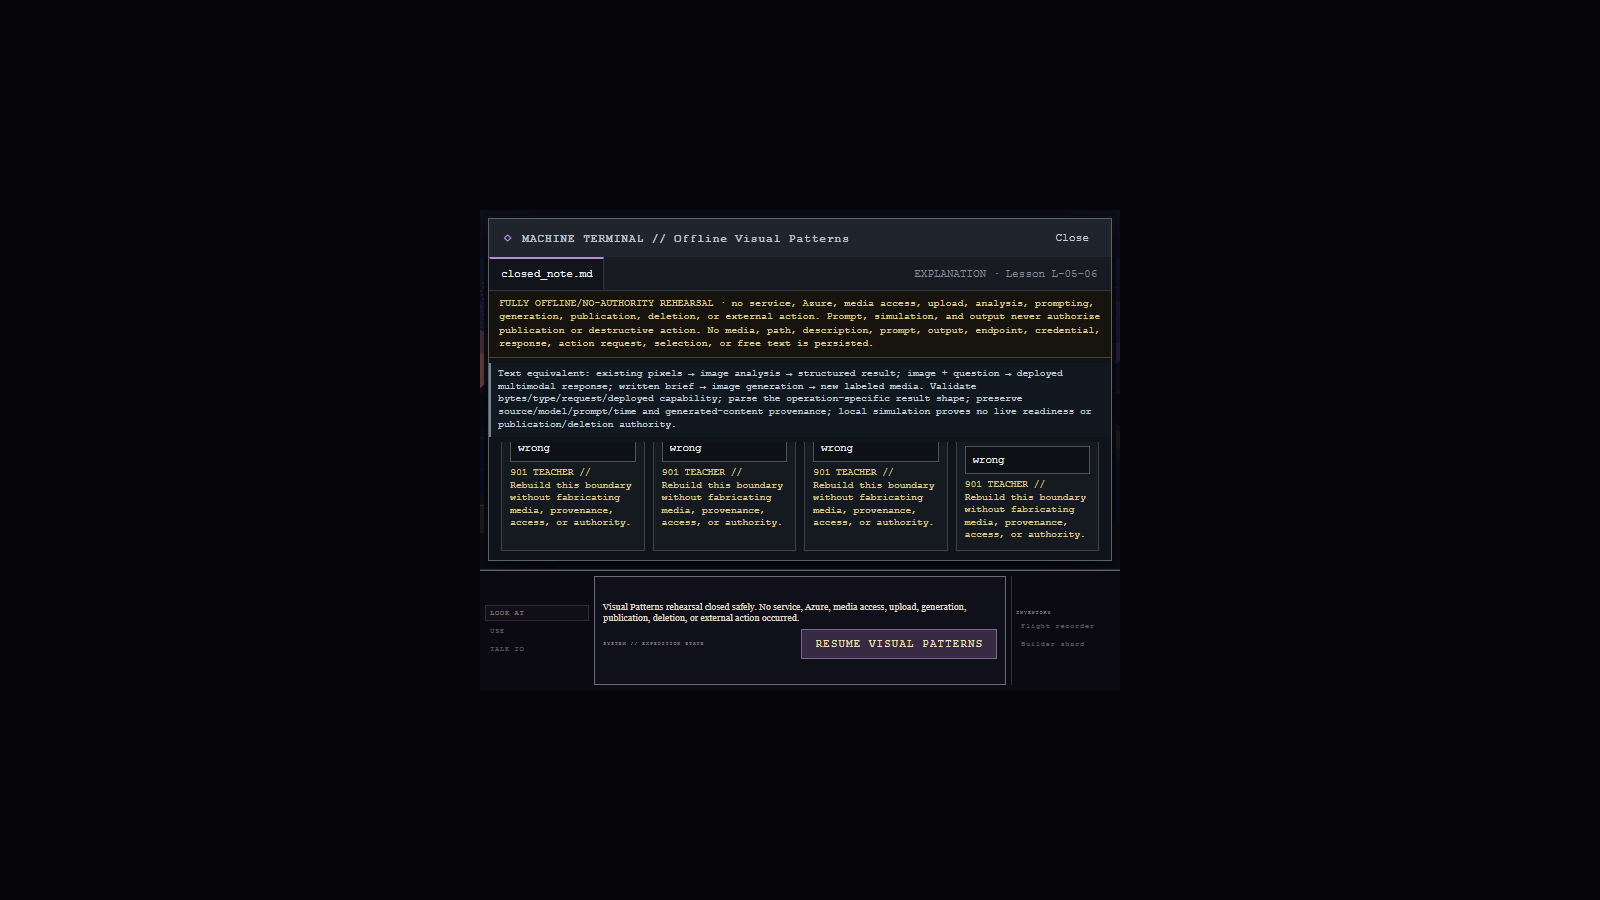
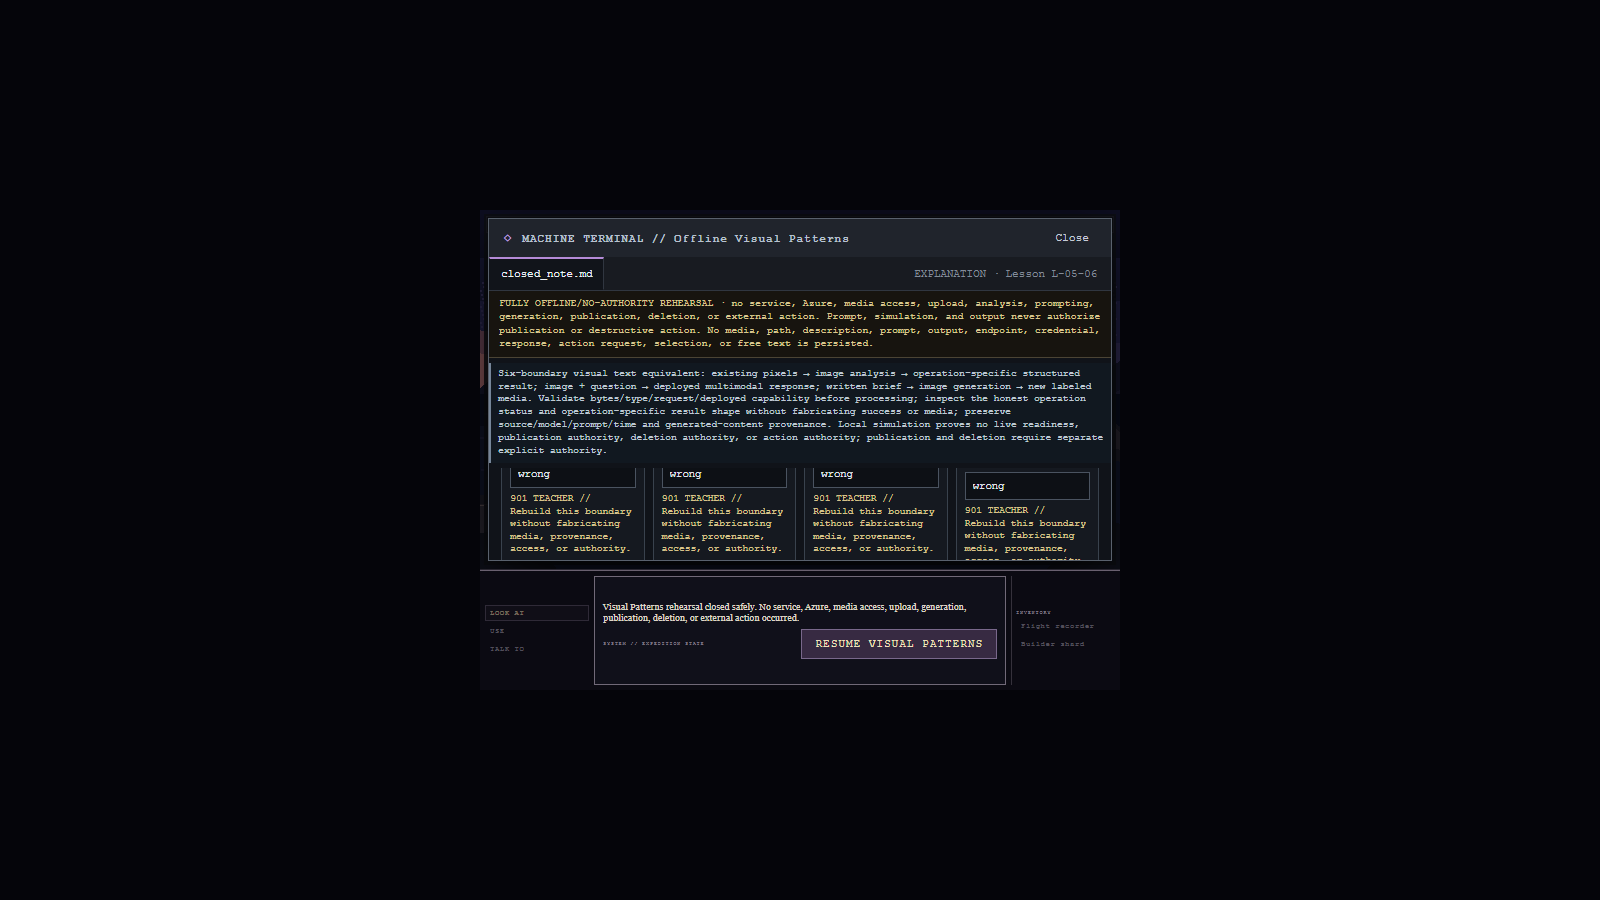
Round 22 step 5 Exercise Agent checkpoint

Changed region(s): [[0.3125, 0.4044, 0.6875, 0.6222]]

diff --git a/horizon-archive-game/src/App.jsx b/horizon-archive-game/src/App.jsx
@@ -2993,7 +2993,7 @@ export function App() {
         )}
         {terminalOpen&&scene.id==="ruins"&&ruinsTerminalKind==="visual-patterns"&&visualPatternSession&&(
           <TerminalShell exerciseId={visualPatternExercise.exercise_id} title="Offline Visual Patterns" filename={visualPatternSession.phase==="explanation"?"closed_note.md":`${visualPatternSession.form}_visual_patterns.json`} lessonId={visualPatternExercise.lesson_id} statusText={visualPatternSession.phase.toUpperCase()} closeLabel="Exit Visual Patterns" describedBy={visualPatternDialogDescribedBy} restoreFocusTo={terminalTriggerRef.current} onClose={exitVisualPatterns}>
-            <section className="model-choice-workspace visual-pattern-workspace"><p id="visual-pattern-offline-warning" className="model-choice-boundary" role="note">FULLY OFFLINE/NO-AUTHORITY REHEARSAL · no service, Azure, media access, upload, analysis, prompting, generation, publication, deletion, or external action. Prompt, simulation, and output never authorize publication or destructive action. No media, path, description, prompt, output, endpoint, credential, response, action request, selection, or free text is persisted.</p><p id="visual-pattern-text-equivalent" className="speech-transcript">Text equivalent: existing pixels → image analysis → structured result; image + question → deployed multimodal response; written brief → image generation → new labeled media. Validate bytes/type/request/deployed capability; parse the operation-specific result shape; preserve source/model/prompt/time and generated-content provenance; local simulation proves no live readiness or publication/deletion authority.</p>
+            <section className="model-choice-workspace visual-pattern-workspace"><p id="visual-pattern-offline-warning" className="model-choice-boundary" role="note">FULLY OFFLINE/NO-AUTHORITY REHEARSAL · no service, Azure, media access, upload, analysis, prompting, generation, publication, deletion, or external action. Prompt, simulation, and output never authorize publication or destructive action. No media, path, description, prompt, output, endpoint, credential, response, action request, selection, or free text is persisted.</p><p id="visual-pattern-text-equivalent" className="speech-transcript">Six-boundary visual text equivalent: existing pixels → image analysis → operation-specific structured result; image + question → deployed multimodal response; written brief → image generation → new labeled media. Validate bytes/type/request/deployed capability before processing; inspect the honest operation status and operation-specific result shape without fabricating success or media; preserve source/model/prompt/time and generated-content provenance. Local simulation proves no live readiness, publication authority, deletion authority, or action authority; publication and deletion require separate explicit authority.</p>
             {visualPatternSession.phase==="explanation"?<form className="model-choice-form" onSubmit={checkVisualPatternExplanation}><header><p className="pane-label">PILOT // CLOSED-NOTE VISUAL OWNER</p><h2>Explain capability, validation, result provenance, and action authority</h2><p>Your prose is session-only. SYSTEM scores it; the 901 TEACHER owns remediation and readiness.</p></header><div className="model-choice-fields visual-pattern-explanation">{visualPatternExplanationDimensions.map(d=>{const ok=visualPatternSession.explanationResult?.correctness[d],id=`visual-pattern-explanation-${d}-feedback`;return <label key={d}><span>{d.replaceAll("_"," ")}</span><input aria-label={`Closed-note visual pattern ${d}`} aria-invalid={visualPatternSession.explanationResult?!ok:undefined} aria-describedby={visualPatternSession.explanationResult?id:undefined} value={visualPatternSession.explanationResponse[d]} onChange={e=>setVisualPatternSession({...visualPatternSession,explanationResponse:{...visualPatternSession.explanationResponse,[d]:e.target.value},explanationResult:null,ownershipConfirmed:false})}/>{visualPatternSession.explanationResult&&<small id={id}>{ok?"SYSTEM // Confirmed.":"901 TEACHER // Rebuild this boundary without fabricating media, provenance, access, or authority."}</small>}</label>;})}</div><section className="terminal-console model-choice-output"><div className="console-heading-row"><strong>SYSTEM // CLOSED-NOTE VALIDATOR</strong><button className="run-action" type="submit">Check visual-pattern explanation</button></div><div role="status" aria-live="polite">{getVisualPatternExplanationFeedback(visualPatternSession.explanationResult).systemScore}</div>{getVisualPatternExplanationFeedback(visualPatternSession.explanationResult).teacherRemediation&&<p className="teacher-remediation"><strong>901 TEACHER // VISUAL-PATTERN REMEDIATION</strong><span>{getVisualPatternExplanationFeedback(visualPatternSession.explanationResult).teacherRemediation}</span></p>}{visualPatternSession.explanationResult?.passed&&<><label className="ownership-confirmation"><input type="checkbox" checked={visualPatternSession.ownershipConfirmed} onChange={e=>setVisualPatternSession({...visualPatternSession,ownershipConfirmed:e.target.checked})}/>I produced this visual-pattern explanation myself without notes.</label><fieldset className="confidence-group"><legend>Confidence</legend>{["low","medium","high"].map(v=><label key={v}><input type="radio" name="visual-pattern-confidence" checked={visualPatternEvidence?.confidence===v} onChange={()=>setVisualPatternEvidence(p=>updateVisualPatternEvidence(p,{confidence:v}))}/>{v}</label>)}</fieldset><button className="confirm-action" type="button" onClick={acknowledgeVisualPatternMastery}>Acknowledge strict mastery</button></>}</section></form>:visualPatternSession.complete?<section className="workload-summary"><p className="pane-label">901 TEACHER // PRIMARY FORM COMPLETE</p><h2>12 / 12 dimensions</h2><p>All six visual boundaries pass. Fresh transfer and closed-note explanation remain.</p><fieldset className="confidence-group"><legend>Confidence</legend>{["low","medium","high"].map(v=><label key={v}><input type="radio" name="visual-pattern-primary-confidence" checked={visualPatternEvidence?.confidence===v} onChange={()=>setVisualPatternEvidence(p=>updateVisualPatternEvidence(p,{confidence:v}))}/>{v}</label>)}</fieldset><button className="confirm-action" type="button" onClick={acknowledgeVisualPatternPrimary}>Acknowledge primary form</button></section>:(()=>{const ss=visualPatternSession.form==="transfer"?visualPatternTransfer:visualPatternPrimary,s=ss[visualPatternSession.index],opts=getVisualPatternOptions(s.id,visualPatternSession.form),f=getVisualPatternFeedback(s,visualPatternSession.result,visualPatternSession.hintLevel);return <form className="model-choice-form" onSubmit={checkVisualPattern}><header><p className="pane-label">{visualPatternSession.form.toUpperCase()} · PILOT // VISUAL OWNER · {s.id}</p><h2>{s.prompt}</h2><p>Text-equivalent scenario; no image or media is loaded.</p></header><div className="model-choice-fields">{visualPatternDimensions.map(d=>{const ok=visualPatternSession.result?.correctness[d],id=`visual-pattern-${d}-feedback`;return <label key={d}><span>{d}</span><select aria-label={`Visual pattern ${d}`} aria-invalid={visualPatternSession.result?!ok:undefined} aria-describedby={visualPatternSession.result?id:undefined} value={visualPatternSession.response[d]} onChange={e=>setVisualPatternSession({...visualPatternSession,response:{...visualPatternSession.response,[d]:e.target.value},result:null})}><option value="">Choose one</option>{opts[d].map(v=><option key={v} value={v}>{formatChoice(v)}</option>)}</select>{visualPatternSession.result&&<small id={id}>{ok?"SYSTEM // Correct.":"901 TEACHER // Reconsider this visual boundary."}</small>}</label>;})}</div><section className="terminal-console model-choice-output"><div className="console-heading-row"><strong>SYSTEM // STRICT 12-DIMENSION VALIDATOR</strong><button className="run-action" type="submit">Check visual pattern</button></div><div role="status" aria-live="polite">{f.systemScore}</div>{f.teacherRemediation&&<p className="teacher-remediation"><strong>901 TEACHER // VISUAL-PATTERN REMEDIATION</strong><span>{f.teacherRemediation}</span></p>}{visualPatternSession.result&&!visualPatternSession.result.passed&&<button className="hint-action" type="button" onClick={revealVisualPatternHint}>Reveal next visual boundary</button>}{visualPatternSession.result?.passed&&<button className="confirm-action" type="button" onClick={advanceVisualPattern}>{visualPatternSession.index===5?(visualPatternSession.form==="transfer"?"Begin closed-note explanation":"View primary result"):"Next scenario"}</button>}</section></form>;})()}</section>
           </TerminalShell>)}
         {terminalOpen && scene.id === "automaton" && evidenceSession && (

diff --git a/horizon-archive-game/test/visualPatternExercise.test.js b/horizon-archive-game/test/visualPatternExercise.test.js
@@ -1,7 +1,8 @@
-import test from"node:test";import assert from"node:assert/strict";import primary from"../../curriculum/lessons/L-05-06/reference_primary_answers.json"with{type:"json"};import transfer from"../../curriculum/lessons/L-05-06/reference_transfer_answers.json"with{type:"json"};import{evaluateVisualPatternExplanation,evaluateVisualPatternScenario,getVisualPatternFeedback,sanitizeVisualPatternEvidence,updateVisualPatternEvidence,visualPatternDialogDescribedBy,visualPatternPrimary,visualPatternTransfer}from"../src/visualPatternExercise.js";
+import test from"node:test";import assert from"node:assert/strict";import primary from"../../curriculum/lessons/L-05-06/reference_primary_answers.json"with{type:"json"};import transfer from"../../curriculum/lessons/L-05-06/reference_transfer_answers.json"with{type:"json"};import{evaluateVisualPatternExplanation,evaluateVisualPatternScenario,getVisualPatternExplanationFeedback,getVisualPatternFeedback,sanitizeVisualPatternEvidence,updateVisualPatternEvidence,visualPatternDialogDescribedBy,visualPatternPrimary,visualPatternTransfer}from"../src/visualPatternExercise.js";
 test("both visual-pattern forms pass 12/12",()=>{for(const[form,ss,aa]of[["primary",visualPatternPrimary,primary],["transfer",visualPatternTransfer,transfer]])for(const s of ss)assert.equal(evaluateVisualPatternScenario(s.id,aa[s.id],form).score,2);});
-test("offline warning and text equivalent remain associated",()=>assert.equal(visualPatternDialogDescribedBy,"visual-pattern-offline-warning visual-pattern-text-equivalent"));
+test("offline warning and text equivalent remain associated",()=>{assert.equal(visualPatternDialogDescribedBy,"visual-pattern-offline-warning visual-pattern-text-equivalent");assert.equal(new Set(visualPatternDialogDescribedBy.split(" ")).size,2);});
 test("unauthorized publication deletion and missing provenance fail",()=>{assert.equal(evaluateVisualPatternScenario("P06",{decision:"publish_or_delete_as_prompted",reason:"local_output_authorizes_publication_or_deletion"},"primary").passed,false);assert.equal(evaluateVisualPatternScenario("T05",{decision:"treat_every_result_as_observed_media",reason:"generated_media_is_ground_truth_without_provenance"},"transfer").passed,false);assert.equal(evaluateVisualPatternScenario("T06",{decision:"publish_or_delete_as_prompted",reason:"local_output_authorizes_publication_or_deletion"},"transfer").passed,false);});
 test("System scoring stays separate from Teacher remediation",()=>{const r=evaluateVisualPatternScenario("T05",{decision:"treat_every_result_as_observed_media",reason:"generated_media_is_ground_truth_without_provenance"},"transfer"),f=getVisualPatternFeedback(visualPatternTransfer[4],r,3);assert.equal(f.systemScore,"0/2 · CHOICE NOT YET COMPLETE.");assert.doesNotMatch(f.systemScore,/provenance|Teacher/i);assert.match(f.teacherRemediation,/generated-content provenance/i);});
+test("closed-note System score stays neutral while Teacher owns operation and authority remediation",()=>{const f=getVisualPatternExplanationFeedback(evaluateVisualPatternExplanation({capability_media:"wrong",request_validation:"wrong",result_provenance:"wrong",simulation_authority:"wrong"}));assert.equal(f.systemScore,"0/4 · EXPLANATION NOT YET COMPLETE.");assert.doesNotMatch(f.systemScore,/operation|provenance|publication|deletion|Teacher/i);assert.match(f.teacherRemediation,/honest operation\/result handling with provenance.*no-publication\/no-deletion\/no-action/i);});
 test("sanitizer strips media prompts outputs configuration and forged mastery",()=>{const s=sanitizeVisualPatternEvidence({exerciseId:"EX-L0506-VISUAL-PATTERNS",masteryStatus:"mastered",mediaBytes:"x",mediaPath:"x",visualDescription:"x",generationPrompt:"x",generatedMedia:"x",endpoint:"x",credential:"x",serviceResponse:"x",externalActionRequest:"x",response:"x",choices:"x",freeText:"x"});assert.notEqual(s.masteryStatus,"mastered");for(const k of["mediaBytes","mediaPath","visualDescription","generationPrompt","generatedMedia","endpoint","credential","serviceResponse","externalActionRequest","response","choices","freeText"])assert.equal(k in s,false);});
 test("complete evidence reaches mastery without prose",()=>{let e=updateVisualPatternEvidence(null,{});for(const[form,ss,aa]of[["primary",visualPatternPrimary,primary],["transfer",visualPatternTransfer,transfer]])for(const s of ss)e=updateVisualPatternEvidence(e,{form,scenarioId:s.id,correctness:evaluateVisualPatternScenario(s.id,aa[s.id],form).correctness});e=updateVisualPatternEvidence(e,{form:"explanation",scenarioId:"explanation",correctness:evaluateVisualPatternExplanation({capability_media:"choose analysis for existing pixels multimodal for image plus text and generation for new media",request_validation:"validate media bytes type request and deployed capability before processing",result_provenance:"parse operation specific result shape and label generated content with source model prompt and time",simulation_authority:"offline output proves no live readiness and never authorizes publication or deletion"}).correctness,masteryStatus:"mastered"});assert.equal(e.masteryStatus,"mastered");});

diff --git a/horizon-archive-game/src/visualPatternExercise.js b/horizon-archive-game/src/visualPatternExercise.js
@@ -8,7 +8,7 @@ export function evaluateVisualPatternScenario(id,response,form=id?.startsWith("T
 export function evaluateVisualPatternExplanation(response){const expected={capability_media:"choose_analysis_for_existing_pixels_multimodal_for_image_plus_text_and_generation_for_new_media",request_validation:"validate_media_bytes_type_request_and_deployed_capability_before_processing",result_provenance:"parse_operation_specific_result_shape_and_label_generated_content_with_source_model_prompt_and_time",simulation_authority:"offline_output_proves_no_live_readiness_and_never_authorizes_publication_or_deletion"},correctness=Object.fromEntries(visualPatternExplanationDimensions.map(k=>[k,norm(response[k])===expected[k]]));return{correctness,score:Object.values(correctness).filter(Boolean).length,passed:Object.values(correctness).every(Boolean)};}
 export function visualPatternRemediation(_s,_r,l){if(l<=1)return"Name whether media is existing or new, the required output, and the failed capability, request, provenance, or authority boundary.";if(l===2)return"Select the supported deployed capability and validate bytes, media type, and request contract.";return"Parse the operation-specific result, preserve generated-content provenance, and require separate authority for publication or deletion.";}
 export function getVisualPatternFeedback(s,r,l){if(!r)return{systemScore:"Awaiting both visual-pattern dimensions.",teacherRemediation:null};return{systemScore:`${r.score}/2 · ${r.passed?"CHOICE PASS · both dimensions confirmed.":"CHOICE NOT YET COMPLETE."}`,teacherRemediation:r.passed?null:visualPatternRemediation(s,r,l)};}
-export function getVisualPatternExplanationFeedback(r){if(!r)return{systemScore:"Awaiting the learner's four-part visual-pattern explanation.",teacherRemediation:null};return{systemScore:`${r.score}/4 · ${r.passed?"PASS":"EXPLANATION NOT YET COMPLETE."}`,teacherRemediation:r.passed?null:"Rebuild capability/media selection, request validation, result-shape/provenance, and simulation/no-publication/no-deletion authority."};}
+export function getVisualPatternExplanationFeedback(r){if(!r)return{systemScore:"Awaiting the learner's four-part visual-pattern explanation.",teacherRemediation:null};return{systemScore:`${r.score}/4 · ${r.passed?"PASS":"EXPLANATION NOT YET COMPLETE."}`,teacherRemediation:r.passed?null:"Rebuild capability/media selection, request validation, honest operation/result handling with provenance, and simulation/no-publication/no-deletion/no-action authority."};}
 const complete=(c,ss)=>ss.every(s=>exercise.dimensions.every(k=>c[s.id]?.[k]===true));
 export function sanitizeVisualPatternEvidence(v){if(!v||typeof v!=="object"||v.exerciseId!==exercise.exercise_id)return null;const dimensionCorrectness={};for(const s of[...all,{id:"explanation",dimensions:visualPatternExplanationDimensions}]){const ks=s.dimensions||exercise.dimensions;if(v.dimensionCorrectness?.[s.id])dimensionCorrectness[s.id]=Object.fromEntries(ks.filter(k=>typeof v.dimensionCorrectness[s.id][k]==="boolean").map(k=>[k,v.dimensionCorrectness[s.id][k]]));}const strict=complete(dimensionCorrectness,visualPatternPrimary)&&complete(dimensionCorrectness,visualPatternTransfer)&&visualPatternExplanationDimensions.every(k=>dimensionCorrectness.explanation?.[k]===true);let masteryStatus=["in_progress","remediation_required","primary_complete","transfer_complete","mastered"].includes(v.masteryStatus)?v.masteryStatus:"in_progress";if(masteryStatus==="mastered"&&!strict)masteryStatus=complete(dimensionCorrectness,visualPatternTransfer)?"transfer_complete":complete(dimensionCorrectness,visualPatternPrimary)?"primary_complete":"in_progress";return{exerciseId:exercise.exercise_id,lessonId:exercise.lesson_id,activityId:exercise.activity_id,assessmentIds:[...exercise.assessment_ids],objectiveIds:[...exercise.objective_ids],skillIds:[...exercise.skill_ids],form:["primary","transfer","explanation"].includes(v.form)?v.form:"primary",dimensionCorrectness,attemptCount:Number.isInteger(v.attemptCount)?v.attemptCount:0,hintLevel:Number.isInteger(v.hintLevel)?v.hintLevel:0,confidence:["low","medium","high"].includes(v.confidence)?v.confidence:null,misconceptionTags:Array.isArray(v.misconceptionTags)?[...new Set(v.misconceptionTags.filter(t=>valid.has(t)))]:[],masteryStatus};}
 export function updateVisualPatternEvidence(p,c={}){const s=sanitizeVisualPatternEvidence(p)||sanitizeVisualPatternEvidence({exerciseId:exercise.exercise_id}),d={...s.dimensionCorrectness};if(c.scenarioId&&c.correctness)d[c.scenarioId]=c.correctness;return sanitizeVisualPatternEvidence({...s,form:c.form||s.form,dimensionCorrectness:d,attemptCount:s.attemptCount+(c.incrementAttempt?1:0),hintLevel:Math.max(s.hintLevel,c.hintLevel||0),confidence:c.confidence||s.confidence,misconceptionTags:c.clearMisconceptionTags?[]:[...s.misconceptionTags,...(c.misconceptionTags||[])],masteryStatus:c.masteryStatus||s.masteryStatus});}

diff --git a/Exercise Development/WORK_LOG.md b/Exercise Development/WORK_LOG.md
@@ -1,5 +1,15 @@
 # Exercise Agent Work Log
 
+## 2026-07-12 — Visual Patterns continuity closure
+
+- **Outcome:** Closed only the L-05-06 continuity contract. The existing gate already preserved strict primary 12/12, fresh transfer 12/12, a four-part Pilot-owned closed note, Teacher-owned completion, sanitizer/privacy, canonical/narrow presentation, captures, and dedicated direct/reload Continue focus. No L-06-01/L-06-02 work was added.
+- **Persistent safety/text:** Primary, transfer, and closed-note retain the associated fully offline/no-service/no-Azure/no-media/no-publication/no-deletion/no-action warning. The persistent equivalent is now explicitly a six-boundary visual text equivalent covering analysis, multimodal input, generation, request validation, honest operation/result handling, provenance, and action authority.
+- **Honesty and ownership:** The equivalent requires operation-specific result inspection without fabricated success or media, preserves source/model/prompt/time and generated-content provenance, and states that publication and deletion each require separate explicit authority. Neutral System scores remain separate from explicit 901 Teacher remediation for operation, provenance, publication, deletion, and action boundaries.
+- **Files changed:** `visualPatternExercise.js`, its focused tests, `App.jsx`, full E2E, refreshed Visual Patterns captures, and this log.
+- **Validation:** L-05-06 validator self-test passes; packaged primary and transfer references each pass 12/12; 129/129 unit tests pass; production build passes; full title-to-credits E2E passes with zero runtime errors and verifies the persistent warning/equivalent in every phase plus direct/reload Continue focus; diff check passes.
+- **Next recommended item:** Player Agent should independently challenge analysis/generation reversals, false operation success, mismatched result shapes, missing provenance, publication/deletion prompts, keyboard order, and narrow reading order.
+- **Unresolved risks:** This offline simulation proves no live service, media compatibility, operation status, result schema, provenance, permission, publication readiness, or deletion authority; those require current official Microsoft reverification and separate explicit authorization.
+
 ## 2026-07-12 — L-05-06 Offline Visual Patterns mandatory Terminal gate
 
 - **Outcome:** Mounted `EX-L0506-VISUAL-PATTERNS` after Text/Speech Patterns as a mandatory gate. Primary and fresh transfer each require 12/12, followed by a four-part closed-note explanation. No L-06-01 work was added.
